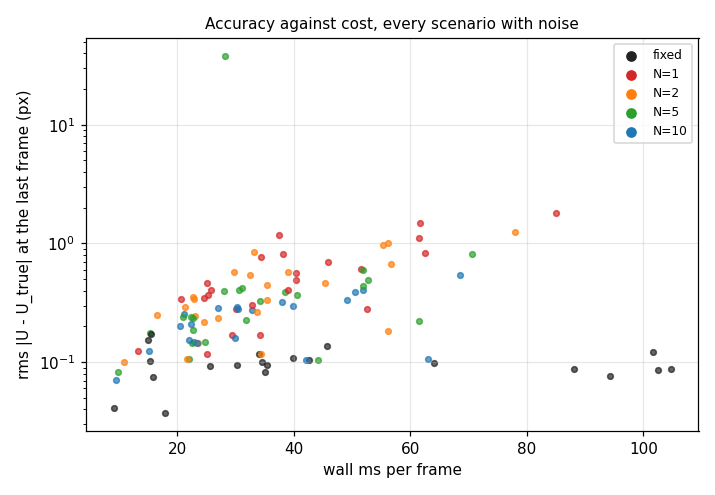
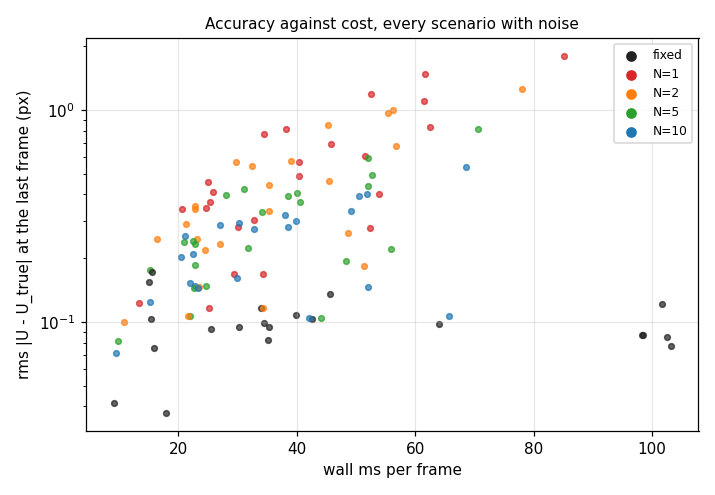
fix(incremental): never move the reference onto a failed solve
IncBench S4 "rotate 2 deg/f", sigma 2, N = 5 locked onto a wrong solution
(12.7 px rms at frame 45, no point within 0.5 px) and N = 10 lost the
chain from frame 8. Cause: the early update from 045a500. It fires on any
frame reporting 5% fewer points than the first frame on the reference, so
a frame whose solve collapsed (a 110 px ROI at sigma 2 turned 6-10 deg now
and then seeds wrong and reports 1-2 points 20-40 px off) always became
the reference, kept only those points and lost every other node for good.
Bisected with the three 045a500 mechanisms switched off one at a time:
without the early update the cell reads 0.137 / 63 (the first edition's
0.133 / 63); without coasting or re-anchoring nothing changes.

With N > 1 the reference now never moves, early or on schedule, to a
frame reporting less than kIncUpdateMinReported (half) of the first frame
on the current reference. The reference stays and an update that was due
falls to the next frame. The scheduled case matters too: it is what cost
the first edition one seed of three (a collapsed scheduled frame 15).

IncBench, every scenario, against 5ea4fc0 on the same host: the only runs
that contain a frame under the floor change; every other run is
bit-identical frame by frame (S1-S10).
- S4 2 deg/f sigma 2 at 90 deg: N = 5 12.7 / 0 -> 0.194 / 94,
  N = 10 lost -> 0.146 / 94.
- S4 5 deg/f sigma 2 N = 10: 0.070 / 60 -> 0.107 / 89.
- S3 5 and 20 px/f, N >= 5: the due frame is out of seeding range in both
[…]

diff --git a/tests/integration/test_incremental.cpp b/tests/integration/test_incremental.cpp
@@ -705,16 +705,95 @@ TEST_CASE(Incremental, EarlyUpdate_WhenReportedPointsDrop) {
         if (f.info.reference_updated) {
             updates++;
             CHECK(f.rc < 0.95 * first_on_ref);
+            CHECK(f.rc >= 0.5 * first_on_ref);   // never onto a failed solve
             if (t + 1 < T) CHECK(inc[t + 1].info.reference_frame == t + 1);
             first_on_ref = -1;
         } else {
-            CHECK(f.rc >= 0.95 * first_on_ref);
+            CHECK(f.rc >= 0.95 * first_on_ref || f.rc < 0.5 * first_on_ref);
         }
     }
     std::printf("  [early update N=100 T=%d] %d early updates\n", T, updates);
     CHECK(updates > 0);
     // A fixed reference never updates, early or not.
     for (const Frame &f : run_session(s, cv::Mat(), p, 0)) CHECK(!f.info.reference_updated);
+}
+
+TEST_CASE(Incremental, FailedSolve_NeverBecomesTheReference) {
+    // 1 px/frame drift, N = 5, with two frames replaced by a different speckle
+    // that nothing correlates with: frame 3, mid-interval, where the drop in
+    // points would trigger the early update, and frame 10, where the scheduled
+    // update falls. Moving onto either keeps only what that frame measured,
+    // which is next to nothing, and the chain is lost for good. The reference
+    // stays instead, and frame 11 takes the deferred update.
+    const int T = 14;
+    Sequence s = stretch_rotate_sequence(320, 320, T, 0.0, 0.0, 0.3, 1.0f, 31, (double)T, 0.0);
+    const dictest::SmoothSpeckleField other(977, 320, 320);
+    for (int t : {3, 10}) {
+        s.frames[t - 1] = dictest::render_frame(other, 320, 320, dictest::identity_motion(), 1.0f, 5000 + t);
+    }
+    const FullFieldParams p = centred_params(320, 320, 160);
+    const std::vector<Frame> inc = run_session(s, cv::Mat(), p, 5);
+    REQUIRE((int)inc.size() == T);
+    const int first = inc[0].rc;
+    REQUIRE(first > 0);
+    for (int t : {3, 10}) {
+        CHECK(inc[t - 1].rc < first / 2);
+        CHECK(!inc[t - 1].info.reference_updated);
+    }
+    CHECK(inc[3].info.reference_frame == 0);    // frame 4: still on frame 0
+    CHECK(inc[4].info.reference_updated);       // frame 5: on schedule
+    CHECK(inc[10].info.reference_frame == 5);   // frame 11: still on frame 5 ...
+    CHECK(inc[10].info.reference_updated);      // ... and becomes the reference
+    CHECK(inc[11].info.reference_frame == 11);
+    for (int t = 1; t <= T; ++t) {
+        if (t == 3 || t == 10) continue;
+        const Accuracy a = evaluate(inc[t - 1], s.motion[t - 1], 0.2);
+        CHECK(a.points >= (int)(0.95 * first));
+        CHECK(a.within >= (int)(0.95 * a.points));
+    }
+}
+
+TEST_CASE(Incremental, Rotation2DegNoisy_N5_KeepsTheChainThroughFailedSolves) {
+    // IncBench S4 "rotate 2 deg/f", sigma 2, N = 5 (10 deg between references),
+    // noise seeds 0 and 1, as rendered there. A 110 px noisy ROI turned 6-10
+    // deg now and then fails to seed and reports a point or two, 20-40 px off:
+    // seed 0 at frame 36 (8 deg from its reference, which the early update had
+    // moved off the 5-frame grid), seed 1 at frame 15 (a scheduled update).
+    // Both used to become the reference, and every later frame was lost or
+    // locked 38 px off. Now the next frame takes the update.
+    const int W = 256, T = 45;
+    const dictest::SmoothSpeckleField field(101, W, W);
+    FullFieldParams p;
+    p.rect_x = p.rect_y = (W - 110) / 2;
+    p.rect_w = p.rect_h = 110;
+    p.step = 5;
+    p.subset_size = 21;
+    p.strain_window = 15;
+    for (int seed : {0, 1}) {
+        const unsigned nseed = 7919u * (unsigned)(seed + 1);
+        Sequence s;
+        s.w = s.h = W;
+        s.ref = dictest::render_frame(field, W, W, dictest::identity_motion(), 2.0f, nseed);
+        for (int t = 1; t <= T; ++t) {
+            dictest::Motion m = dictest::stretch_rotate(0.0, 0.0, 2.0 * t * kPi / 180.0, dictest::Vec2{},
+                                                        dictest::Vec2{128, 128});
+            s.frames.push_back(dictest::render_frame(field, W, W, m, 2.0f, nseed + (unsigned)t));
+            s.motion.push_back(std::move(m));
+        }
+        const std::vector<Frame> inc = run_session(s, cv::Mat(), p, 5);
+        REQUIRE((int)inc.size() == T);
+        int failed = 0;
+        for (const Frame &f : inc) failed += (f.rc < inc[0].rc / 2) ? 1 : 0;
+        const Accuracy last = evaluate(inc[T - 1], s.motion[T - 1], 0.5);
+        std::printf("  [rotate 2 deg/f sigma 2 N=5 seed %d] %d failed solves; f45: %d points, %d within 0.5 px, "
+                    "rms %.3f px\n", seed, failed, last.points, last.within, last.rms_u);
+        // Measured: seed 0 1 failed solve, f45 370 points, 364 within 0.5 px,
+        // 0.162 px; seed 1 2, 400, 388, 0.195 px. Before: 10 failed solves and
+        // 1 point at 38 px (seed 0); 31 and nothing (seed 1).
+        CHECK(last.points >= (int)(0.9 * inc[0].rc));
+        CHECK(last.within >= (int)(0.9 * last.points));
+        CHECK(last.rms_u < 0.4);
+    }
 }
 
 #else

diff --git a/src/pipeline/incremental_session.cpp b/src/pipeline/incremental_session.cpp
@@ -428,10 +428,17 @@ int IncrementalSession::Impl::process(const cv::Mat& def_gray, float* output, in
     // Early update on a drop in the points reported (written), not in the
     // nodes sampled: a sparse loss of increment nodes still samples through
     // the Taylor fallback but fails the median test and the strain window.
-    if (!will_update && N > 1) {
+    // A frame below kIncUpdateMinReported of that count is a failed solve:
+    // the reference does not move onto it, early or on schedule, and the next
+    // frame tries again against the same reference. (The first frame on a
+    // reference never updates with N > 1, so the count is always set first.)
+    if (N > 1) {
+        const float first = (float)s.ref_reported;
         if (s.ref_reported < 0) {
             s.ref_reported = written;
-        } else if ((float)written < (1.0f - tuning::kIncEarlyUpdateDrop) * (float)s.ref_reported) {
+        } else if ((float)written < tuning::kIncUpdateMinReported * first) {
+            will_update = false;
+        } else if ((float)written < (1.0f - tuning::kIncEarlyUpdateDrop) * first) {
             will_update = true;
         }
     }

diff --git a/include/semper/tuning.hpp b/include/semper/tuning.hpp
@@ -244,6 +244,19 @@ inline constexpr int kIncAnchorMarginPx = 10;
 inline constexpr float kIncEarlyUpdateDrop = 0.05f;
 
 /**
+ * Incremental DIC update floor: with an interval N > 1, the reference does not
+ * move, early or on schedule, to a frame that reports fewer than this fraction
+ * of the points reported on the first frame against the current reference.
+ * Such a frame is a failed solve, not an increment outgrowing the images: the
+ * seed locked onto a wrong solution or nothing matched (now and then on a
+ * 6-10 deg step over a small noisy ROI), and the few points it reports may be
+ * tens of pixels off. Moving onto it would keep only those and lose every
+ * other node for good. The reference stays, and the next frame is solved
+ * against it and moves it if it solves.
+ */
+inline constexpr float kIncUpdateMinReported = 0.5f;
+
+/**
  * Incremental DIC mask warp: how far past the outermost frame-0 nodes (in
  * grid cells, plus half a subset) the warped mask is evaluated. The field is
  * extended linearly from the edge cells over that window. The material

diff --git a/bindings/python/semper/__init__.py b/bindings/python/semper/__init__.py
@@ -144,7 +144,9 @@ class IncrementalSession:
     onto the running total, so large deformation can be followed frame by
     frame. Every update adds a little error, so on slow loading a larger
     interval (or the fixed reference) is more accurate. With an interval above
-    1 the reference also moves as soon as a frame reports 5% fewer points.
+    1 the reference also moves as soon as a frame reports 5% fewer points, and
+    it never moves to a frame reporting less than half (a failed solve): an
+    update that was due falls to the next frame instead.
 
     A point the solve cannot reach on a frame (a band that does not correlate,
     such as glare or a background edge) coasts on its neighbours' motion and is

diff --git a/include/semper/incremental.hpp b/include/semper/incremental.hpp
@@ -21,7 +21,9 @@ namespace pipeline {
  *   0   never — a fixed reference, identical to calling run_full_field per frame
  *   1   every frame (classic incremental DIC)
  *   N   every N frames, or as soon as a frame reports 5% fewer points than the
- *       first frame on the current reference
+ *       first frame on the current reference; but never to a frame reporting
+ *       less than half of that (a failed solve): the reference stays, and an
+ *       update that was due falls to the next frame
  * A node the solve cannot reach on a frame coasts, unreported, on the plane
  * through its neighbours' increments, and is reported again once measured
  * (after a long coast, once its earlier subset confirms it).

diff --git a/docs/INCREMENTAL_BENCHMARK.md b/docs/INCREMENTAL_BENCHMARK.md
@@ -44,6 +44,22 @@ Both builds ran on the same host, interleaved scenario by scenario: `045a500` (t
 
 The tables below are the new build's. Tables other than S4 also differ in places from this report's first edition, because `045a500` landed in between. It added coasting across gaps, re-anchoring before reporting, and an early reference update when a frame reports 5% fewer points. Those numbers are identical in both builds of this run.
 
+## Update floor: what changed
+
+With N > 1 the reference no longer moves, early or on schedule, to a frame that reports less than half the points of the first frame on the current reference (`kIncUpdateMinReported`). Such a frame is a failed solve. The reference stays, and an update that was due falls to the next frame.
+
+`045a500` made this matter. Its early update fires on any frame that reports 5% fewer points, so a frame whose solve collapsed always became the reference, kept only the one or two points it had (20–40 px off), and lost every other node for good. Before it, only a collapse that happened to land on a scheduled update did that.
+
+- **S4, 2°/f, σ = 2 (10° and 20° steps):**
+  - N = 5 ends at 0.194 px / 94%, where it was 12.7 px / 0% (a wrong lock).
+  - N = 10 ends at 0.146 px / 94%, where it lost the chain from frame 8.
+  - The solves still collapse on 1–2 frames per run (seeding a 110 px ROI at σ = 2 turned 6–10°), and those frames still count as failed. The chain survives them.
+- **S4, 5°/f, σ = 2, N = 10:** 0.070 / 60 → 0.107 / 89. One seed used to adopt a collapsed frame 13.
+- **S3, 5 and 20 px/f, N ≥ 5:** the frame due for update is out of seeding range and reports nothing in either build. Accuracy is identical, and these runs still fail.
+- **Every other run is bit-identical,** frame by frame, in all of S1–S10. Only these 19 runs (scenario, mode, σ, seed) contain a frame below the floor.
+
+The first edition's 0.133 / 63 for S4 2°/f N = 5 was most likely one seed short as well. With the early update switched off, this build reads 0.137 / 63: seed 1 loses the chain at a scheduled update onto a collapsed frame 15, which the floor now defers.
+
 ## Running it
 
 ```bash
@@ -158,11 +174,11 @@ Values are rms px / coverage % at the last frame.
 
 The fixed reference fails, and stays failed, once the total displacement passes the seeding capture range of about 48 px (half the 96 px phase-correlation window). Incremental mode carries the reference along and tracks the full 200 px.
 
-The same limit applies to the step between references: N × (motion per frame) must stay under ~48 px. That is why N = 10 fails at 5 px/frame and N = 5 fails at 20 px/frame.
+The same limit applies to the step between references: N × (motion per frame) must stay under ~48 px. That is why N = 10 fails at 5 px/frame and N = 5 fails at 20 px/frame. The reference no longer moves onto those empty frames, but every later frame is just as far out of range.
 
 ### S4. Rigid rotation to 90°
 
-Values are rms px / coverage % at the listed frame. Where rotation-aware seeding changed a cell, the `045a500` value (translation-only seeding) comes first.
+Values are rms px / coverage % at the listed frame. Where rotation-aware seeding changed a cell, the `045a500` value (translation-only seeding) comes first. Cells marked ¹ changed with the update floor; the value before it comes first.
 
 | case | fixed | N=1 | N=2 | N=5 | N=10 |
 |---|---|---|---|---|---|
@@ -171,9 +187,9 @@ Values are rms px / coverage % at the listed frame. Where rotation-aware seeding
 | 0.45°/f, σ = 2, at 45° (f100) | 0.067 / 82 | 0.688 / 58 | 0.493 / 86 | 0.265 / 97 → 0.264 / 97 | 0.176 / 100 → 0.168 / 100 |
 | 0.45°/f, σ = 2, at 90° (f200) | – → **0.077 / 101** | 1.189 / 23 | 0.847 / 58 | 0.409 / 91 → 0.407 / 91 | 0.295 / 96 → 0.282 / 97 |
 | 2°/f, σ = 0, at 90° (f45) | 0.000 / 62 → **0.001 / 100** | 0.083 / 100 | 0.045 / 100 | 0.020 / 99 → 0.020 / 100 | 0.059 / 100 → **0.013 / 100** |
-| 2°/f, σ = 2, at 90° (f45) | 0.029 / 20 → **0.087 / 99** | 0.406 / 87 → 0.403 / 87 | 0.269 / 92 → 0.264 / 92 | 12.7 / 0 (wrong lock) | – |
+| 2°/f, σ = 2, at 90° (f45) | 0.029 / 20 → **0.087 / 99** | 0.406 / 87 → 0.403 / 87 | 0.269 / 92 → 0.264 / 92 | 12.7 / 0 (wrong lock) → **0.194 / 94** ¹ | – → **0.146 / 94** ¹ |
 | 5°/f, σ = 0, at 90° (f18) | 0.000 / 62 → **0.001 / 100** | 0.045 / 100 → 0.033 / 100 | 0.020 / 99 → 0.020 / 100 | 0.206 / 86 → **0.010 / 100** | 3.406 / 84 → **0.007 / 100** |
-| 5°/f, σ = 2, at 90° (f18) | – → **0.087 / 99** | 0.193 / 62 → **0.279 / 94** | 0.129 / 63 → **0.184 / 95** | 0.194 / 60 → 0.220 / 89 | – → 0.070 / 60 |
+| 5°/f, σ = 2, at 90° (f18) | – → **0.087 / 99** | 0.193 / 62 → **0.279 / 94** | 0.129 / 63 → **0.184 / 95** | 0.194 / 60 → 0.220 / 89 | – → 0.070 / 60 → **0.107 / 89** ¹ |
 
 Axis-aligned subsets stop matching a turning pattern, and translation-only seeding hands them a guess that is wrong by the rotation. The anchor lattice now measures rotation and scale from the log-polar spectrum and seeds the subsets with the turned shape.
 
@@ -197,7 +213,7 @@ Within 4° of the quarter turn the estimate locks in 27 of 30 solves, and the fr
 **Incremental mode** benefits wherever one step between references is a rotation the estimate resolves:
 - Noise-free at 5°/frame, N = 5 and N = 10 (25° and 50° steps) now track every node to 0.010 / 0.007 px. They lost 14–16% of nodes before, and N = 10 ended 3.4 px off.
 - With noise at 5°/frame, N = 1 and N = 2 keep 94–95% coverage at 90°, against 62–63%. Their rms rises because it now includes the roughly 30% of nodes they used to lose. N = 5 no longer drops frames (13 → 0 of 54), and N = 10 drops 6 instead of 23.
-- With noise at 2°/frame, N = 5 (10° steps) locks onto a wrong solution at frame 45 in both builds: 12.7 px rms, no point within 0.5 px. It read 0.133 / 63 in this report's first edition, before `045a500`. N = 10 (20° steps) loses the chain from frame 8 in both builds.
+- With noise at 2°/frame, N = 5 and N = 10 (10° and 20° steps) end at 0.194 / 94 and 0.146 / 94. The solve still collapses on one or two frames per run, where the seed locks onto a wrong solution and reports a point or two 20–40 px off. Before the update floor such a frame became the reference: N = 5 ended locked 12.7 px off with no point within 0.5 px, and N = 10 lost the chain from frame 8.
 
 N = 5–10 still follows the full quarter turn at 0.45°/frame, with or without noise: noise-free it ends at 0.04–0.07 px with every node tracked. N = 1 pays for its 200 updates and ends at 0.8 px.
 
@@ -338,5 +354,5 @@ The first frame against a reference costs the same as before or a little more, s
    - speckle that changes appearance (reflections, necking, lighting).
 
    Rotation-aware seeding carries the fixed reference through 90° where its log-polar estimate locks: on clean images, or with a ROI of about 200 px or more at σ = 2 GL (SEEDING_BENCHMARK.md §4.5.1). A 110 px ROI on noisy images does not get that far. In the app, losing correlation shows as coverage falling frame after frame.
-3. **Move the reference as seldom as works.** Pick N so that N × (motion per frame) stays under ~40 px. Keep the rotation per step under ~5° on noisy images with a small ROI: 10° steps at σ = 2 locked onto a wrong solution here. On clean images, steps of 25–50° tracked. On video at full frame rate that is N = 5–10; on frames a second or more apart it is N = 1–2.
+3. **Move the reference as seldom as works.** Pick N so that N × (motion per frame) stays under ~40 px. Keep the rotation per step under ~5° on noisy images with a small ROI: 10° steps at σ = 2 track here, but now and then a frame fails to solve. On clean images, steps of 25–50° tracked. On video at full frame rate that is N = 5–10; on frames a second or more apart it is N = 1–2.
 4. **Use the 6×6 interpolator** for incremental runs on clean images. It cuts the per-update bias 2–6×.

diff --git a/docs/TESTING.md b/docs/TESTING.md
@@ -671,6 +671,8 @@ error, an error map and a bias fit. OpenCV-gated.
 | `LostNodesNeverReturn` | A 70 px drift carries part of the ROI past the image-edge margin: `tracked_points` never increases and ends below the frame-0 count | A lost node comes back with a stale base |
 | `StationaryBand_NodesCoastAcrossAndComeBack` | 320×480, 36 frames moving 108 px down under a stationary 9 px band that shows fresh speckle every frame (glare, a background edge under translucent film). N = 1. ≥ 98% of the nodes tracked after frame 1 still tracked. Nodes whose path stayed clear of the band: ≥ 90% reported, worst error ≤ 0.6 px. Nodes that crossed it: ≥ 45% reported again by the last frame, median error ≤ 0.08 px, worst ≤ 0.4 px. Measured: 806 tracked (frame 1: 816; frame 1 cannot measure the nodes in the band, and they are not followed); clear 168/180, worst 0.46 px; crossed 146/285, median 0.029 px, worst 0.20 px (the rest still wait for a clean subset) | Coasting stops carrying nodes across a gap (before it, every node that reached the band was lost), or re-anchoring stops removing the coast's drift (without it, crossed nodes came back up to 2.3 px off) |
 | `EarlyUpdate_WhenReportedPointsDrop` | The band sequence with N = 100: the reference moves early, and only on frames reporting < 95% of the first frame on the current reference; N = 0 never moves | The early update fires on noise, or not at all |
+| `FailedSolve_NeverBecomesTheReference` | 320², 1 px/frame, N = 5, frames 3 and 10 replaced by an unrelated speckle. Neither becomes the reference (frame 3 would trigger the early update, frame 10 is a scheduled one); frame 11 takes the deferred update; every other frame reports ≥ 95% of frame 1's points, ≥ 95% of them within 0.2 px | A failed solve is adopted as the reference, and every node it did not measure is lost for good |
+| `Rotation2DegNoisy_N5_KeepsTheChainThroughFailedSolves` | IncBench S4 at 2°/frame, σ = 2, N = 5, noise seeds 0 and 1: at 90° ≥ 90% of frame 1's points, ≥ 90% of them within 0.5 px, rms < 0.4 px. Measured: 370 / 364 / 0.162 px and 400 / 388 / 0.195 px, after 1 and 2 failed solves | The early update (seed 0, frame 36) or the scheduled one (seed 1, frame 15) moves onto a failed solve: before, 1 point 38 px off and nothing |
 | `RepeatRun_BitIdentical` | The same sequence twice gives the same bytes | Run-to-run nondeterminism in composition or the mask warp |
 | `Contracts_ErrorCodes` | `-3` before `init`, for a wrong-size frame and for a null buffer; `-2` / `-4` / `-3` from `init`, including an even subset (`-3`), a strain window far beyond the grid (`-3`) and a rect off the image (`-2`) | The documented codes drifted |
 | `Cancel_LeavesSessionUnchanged` | A frame cancelled mid-solve, then resubmitted, gives the same bytes as an uncancelled run | A cancelled frame half-updates the session |

diff --git a/docs/MATHEMATICS.md b/docs/MATHEMATICS.md
@@ -962,8 +962,18 @@ when that frame reports `kIncEarlyUpdateDrop` = 5% fewer points than the
 first frame solved against the current reference. That happens when the
 increment has outgrown what the images still correlate over, as with fast
 loading, necking or whitening. On the tensile video it lifts the late-test
-minimum at N = 20 from 337 to 397 points, and changes nothing at N = 5. Its image is already prepared for correlation (intensities
-and gradients), so it is handed over without decoding or preparing it again.
+minimum at N = 20 from 337 to 397 points, and changes nothing at N = 5.
+Neither the early nor the scheduled update moves the reference to a frame that
+reports less than `kIncUpdateMinReported` = half of that first frame. Such a
+frame is a failed solve, not a grown increment: on a 110 px ROI at σ = 2
+turned 6–10° from its reference, the seed now and then locks onto a wrong
+solution and reports one or two points 20–40 px off. Moving onto it would keep
+only those. The reference stays, the next frame is solved against it, and an
+update that was due falls to that frame. In IncBench S4 (2°/frame, σ = 2) this
+keeps N = 5 at 0.19 px and 94% coverage at 90°, where adopting the failed
+frames ended 12.7 px off. The new reference's image is already prepared for
+correlation (intensities and gradients), so it is handed over without decoding
+or preparing it again.
 The ROI mask has to follow the material, so the frame-0 mask is warped
 forward. Every material pixel of the frame-0 window (the grid widened by
 `kIncMaskExtrapCells` = 3 cells plus half a subset) is sampled on a sub-pixel

diff --git a/docs/CONTRACT.md b/docs/CONTRACT.md
@@ -171,7 +171,8 @@ header.
 struct IncrementalParams {
     FullFieldParams field;     // the frame-0 grid, exactly as for run_full_field
     int update_interval = 1;   // 0 = fixed reference, N = move the reference every N frames
-                               // (sooner when a frame reports 5% fewer points, N > 1)
+                               // (sooner when a frame reports 5% fewer points, N > 1;
+                               // never onto a frame reporting under half, N > 1)
 };
 
 struct IncrementalFrameInfo {

diff --git a/docs/ARCHITECTURE.md b/docs/ARCHITECTURE.md
@@ -342,7 +342,7 @@ Tunables: `tuning::kIncTaylorMaxCells`, `kIncMaskMaxSamplesPerPx`,
 `kIncMaskExtrapCells`, `kIncCoastRadiusCells`, `kIncCoastMinNodes`,
 `kIncCoastMaxTravelSubsets`, `kIncCoastTrustedTravelSubsets`,
 `kIncReanchorMaxShiftFraction`, `kIncReanchorMinShiftPx`, `kIncAnchorMarginPx`,
-`kIncEarlyUpdateDrop`.
+`kIncEarlyUpdateDrop`, `kIncUpdateMinReported`.
 
 ---
 
